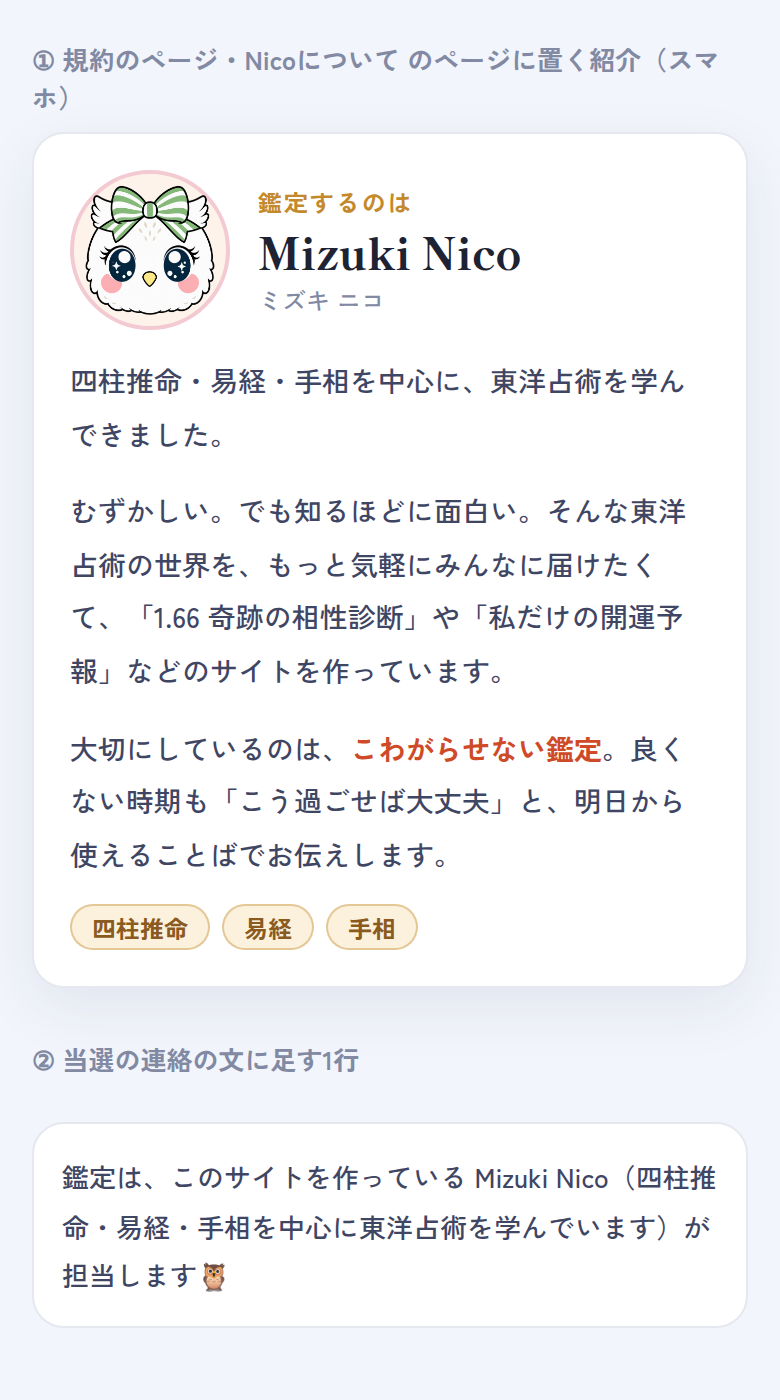
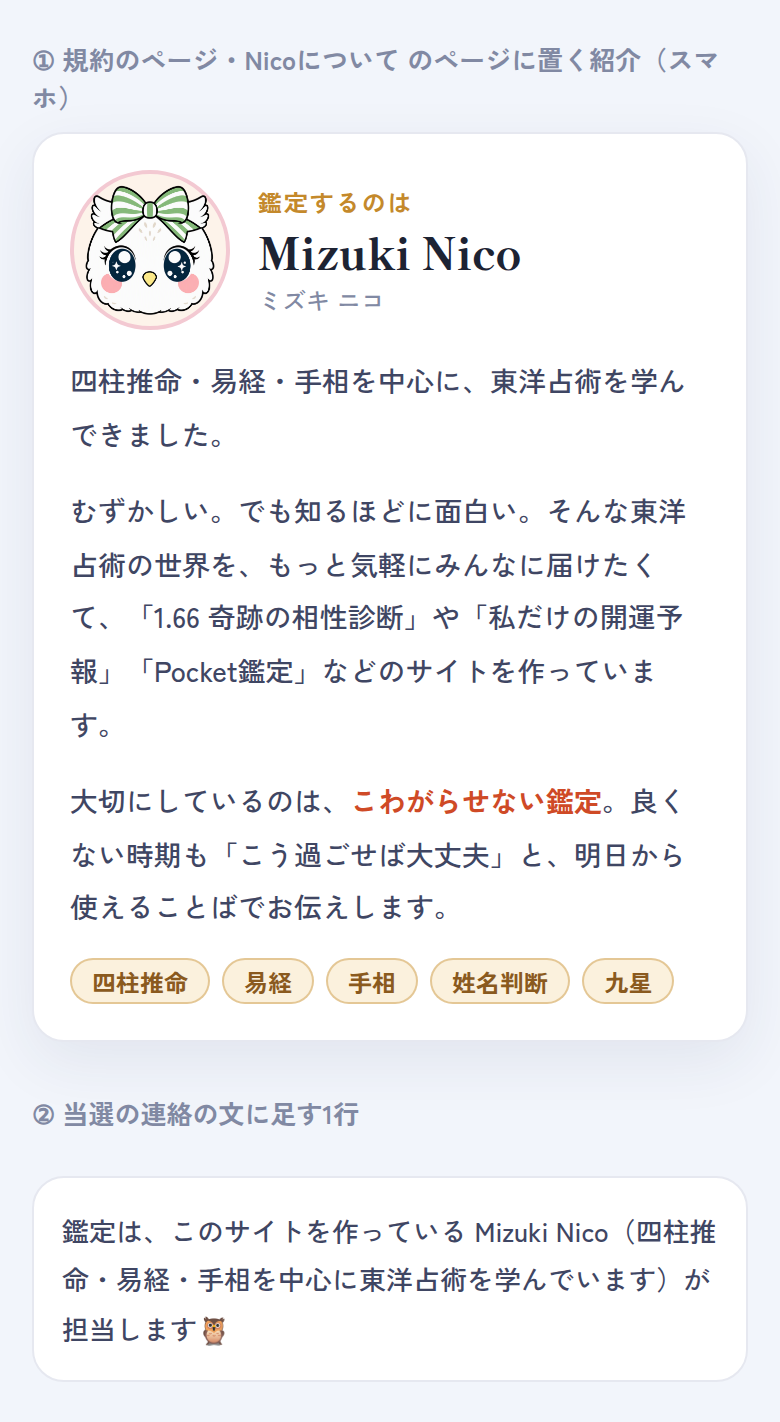
鑑定士の紹介文をオーナーの文に（Pocket鑑定・姓名判断・九星を追加）
Claude-Session: https://claude.ai/code/session_01VAAXUWaNn8kZjmChCXNaq8

diff --git a/docs/1.66相性診断/LINE公式/LINE公式に入れる内容.md b/docs/1.66相性診断/LINE公式/LINE公式に入れる内容.md
@@ -93,3 +93,13 @@ https://166unmei.com/
 ## 入れないもの
 - **住所・地図情報・電話番号は入れません**（個人の名前・住所は出さない決まりのため）。
 - 運営者の情報が必要なときは、サイトの「運営者情報」ページ（事業者名とお問い合わせ先だけ）を案内します。
+
+## 鑑定士の紹介（10/12 オーナー決定の文）
+アイコン：Pocket鑑定のフクロウ（`owl.png`）
+```
+鑑定するのは　Mizuki Nico（ミズキ ニコ）
+四柱推命・易経・手相を中心に、東洋占術を学んできました。
+むずかしい。でも知るほどに面白い。そんな東洋占術の世界を、もっと気軽にみんなに届けたくて、「1.66 奇跡の相性診断」や「私だけの開運予報」「Pocket鑑定」などのサイトを作っています。
+大切にしているのは、こわがらせない鑑定。良くない時期も「こう過ごせば大丈夫」と、明日から使えることばでお伝えします。
+〔四柱推命〕〔易経〕〔手相〕〔姓名判断〕〔九星〕
+```
